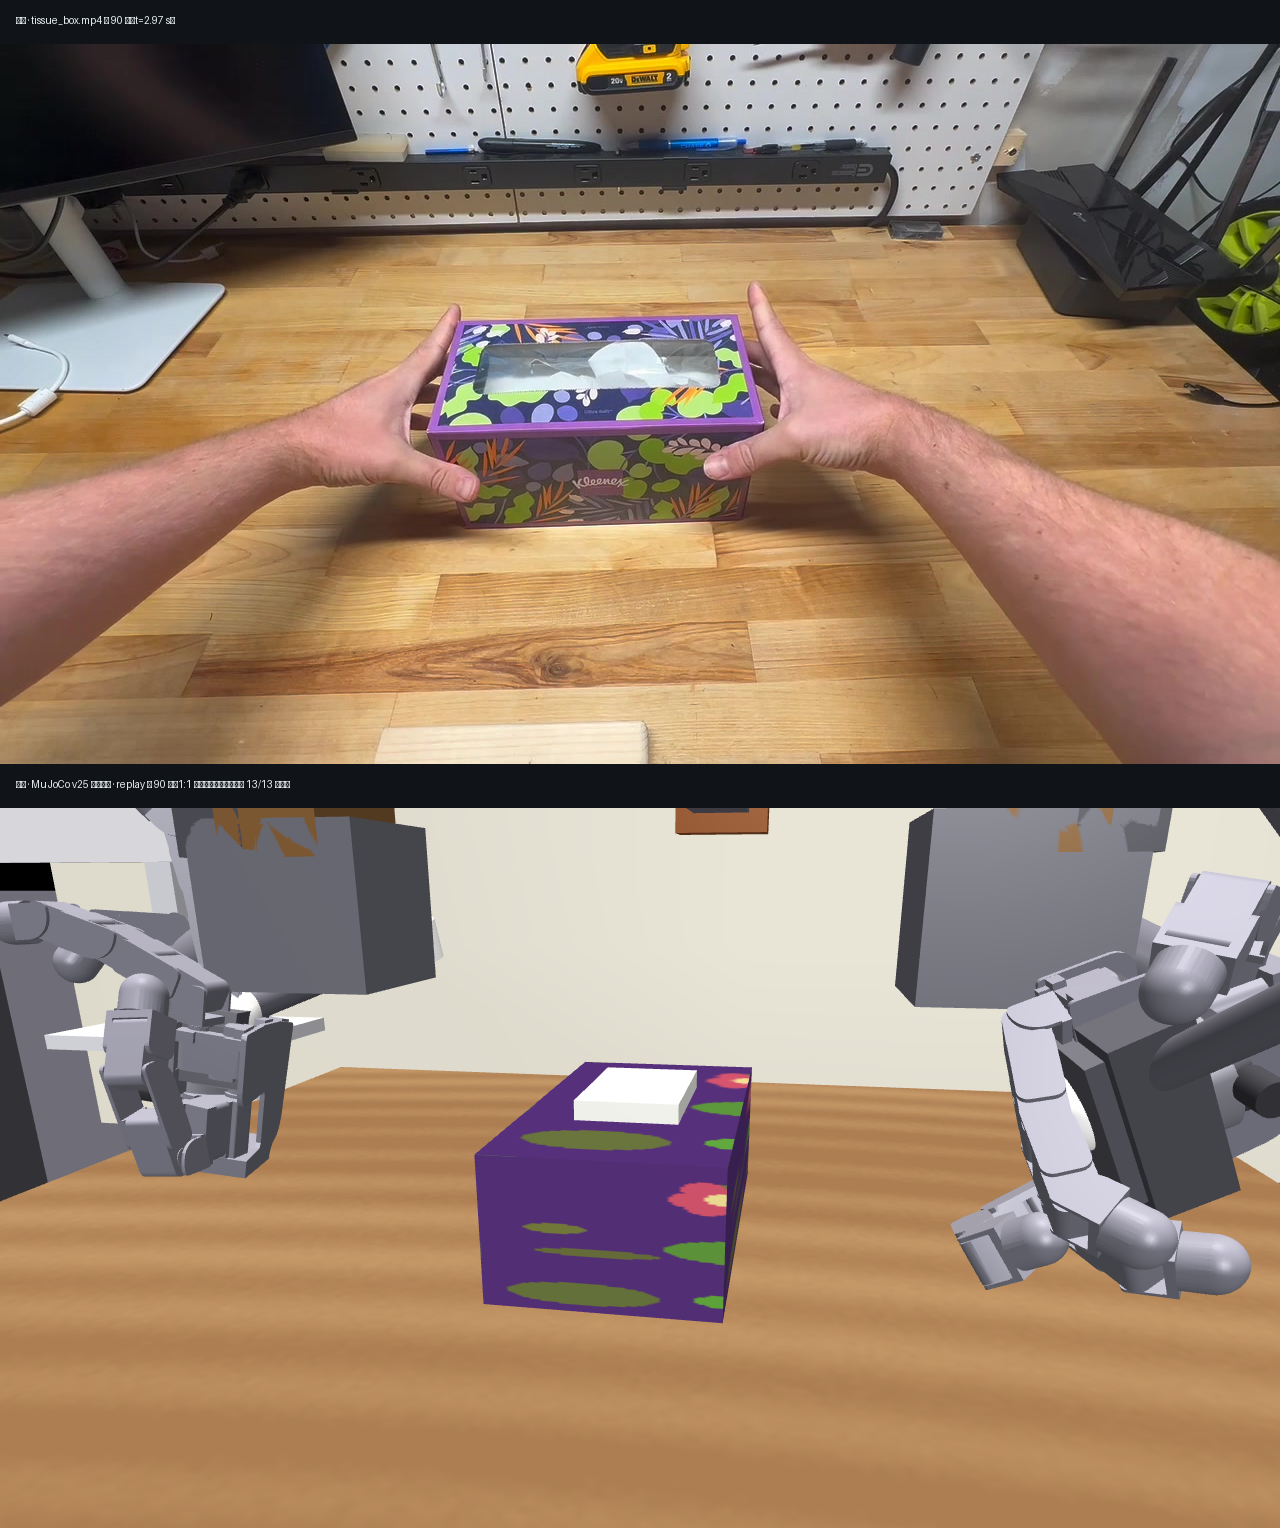
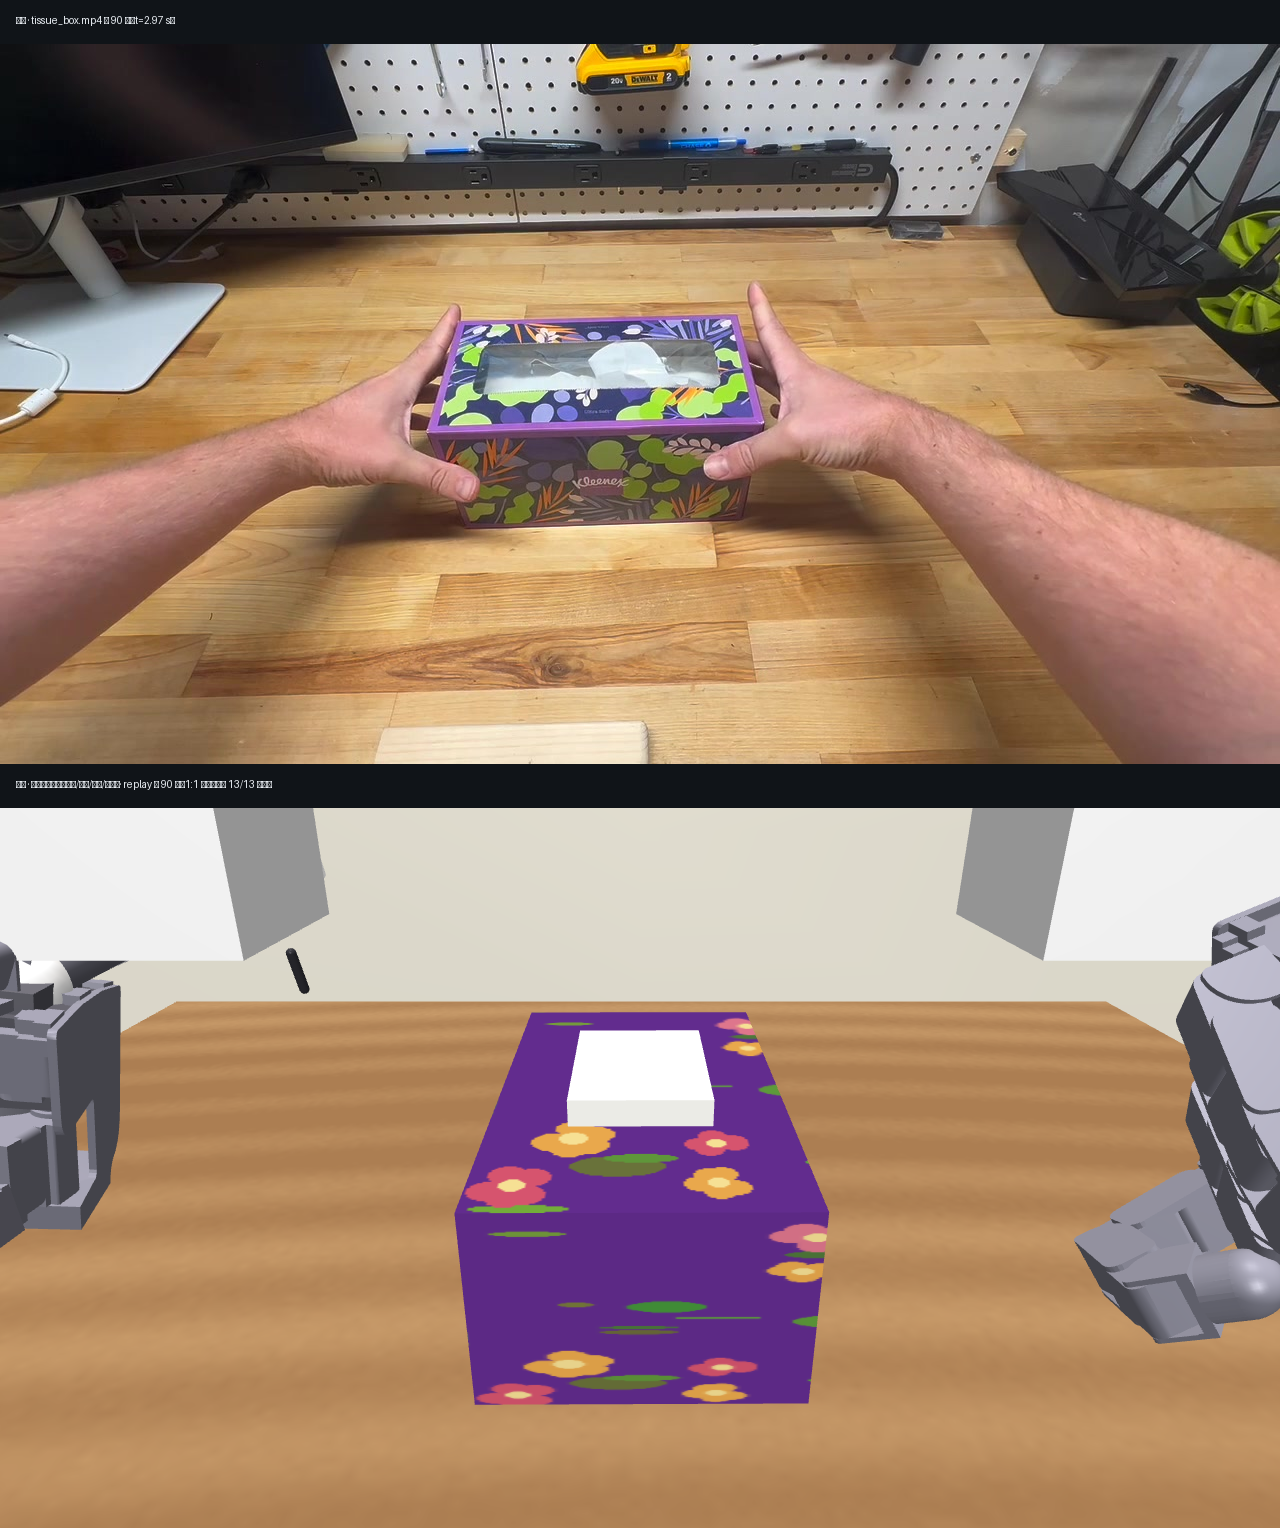
p0(w6d): product-level visuals — materials/shadows/cable chains

Changed region(s): [[0.0, 0.4921, 1.0, 0.9228], [0.0312, 0.8613, 0.1562, 0.892], [0.5312, 0.5229, 0.625, 0.5537]]

diff --git a/viz/scene_fidelity.py b/viz/scene_fidelity.py
@@ -31,7 +31,7 @@ REPO = pathlib.Path(__file__).resolve().parents[1]
 TEX_DIR = REPO / "viz/fidelity_textures"
 
 # original-clip palette (sampled from source frame 90)
-VIOLET = (86, 48, 122)
+VIOLET = (98, 44, 142)
 FLOWERS = [(214, 84, 110), (233, 168, 76), (88, 140, 78), (222, 118, 140)]
 OAK_LIGHT = (200, 155, 106)
 OAK_DARK = (172, 126, 82)
@@ -44,29 +44,31 @@ def _png(name: str) -> pathlib.Path:
     return TEX_DIR / f"{name}.png"
 
 
-def _floral_texture(path: pathlib.Path, size: int = 512) -> None:
-    """Purple base + scattered flowers/leaves, the tissue-box print."""
+def _floral_texture(path: pathlib.Path, size: int = 1024) -> None:
+    """Purple base + dense scattered flowers/leaves, the tissue-box print.
+    1024 px + ~3x element density vs v20 (GPT 满分批: density/saturation
+    aligned toward the original print)."""
     rng = np.random.default_rng(11)
     img = Image.new("RGB", (size, size), VIOLET)
     d = ImageDraw.Draw(img)
-    for _ in range(70):  # leaves
+    for _ in range(260):  # leaves
         x, y = rng.integers(0, size, 2)
-        r = rng.integers(8, 22)
+        r = rng.integers(6, 20)
         a = rng.uniform(0, np.pi)
         dx, dy = r * np.cos(a), r * np.sin(a) * 0.45
-        green = (70 + int(rng.integers(0, 50)), 110 + int(rng.integers(0, 60)), 60)
+        green = (66 + int(rng.integers(0, 55)), 105 + int(rng.integers(0, 70)), 58)
         d.ellipse([x - r, y - dy, x + r, y + dy], fill=green)
-    for _ in range(46):  # flowers: 5 petals around a centre
+    for _ in range(170):  # flowers: 5 petals around a centre
         x, y = rng.integers(0, size, 2)
-        pr = rng.integers(7, 16)
+        pr = rng.integers(6, 15)
         col = FLOWERS[rng.integers(0, len(FLOWERS))]
         for k in range(5):
             a = 2 * np.pi * k / 5 + rng.uniform(0, 1)
             px, py = x + 0.7 * pr * np.cos(a), y + 0.7 * pr * np.sin(a)
             d.ellipse([px - pr * 0.55, py - pr * 0.55,
                        px + pr * 0.55, py + pr * 0.55], fill=col)
-        d.ellipse([x - pr * 0.4, y - pr * 0.4, x + pr * 0.4, y + pr * 0.4],
-                  fill=(245, 225, 150))
+        d.ellipse([x - pr * 0.38, y - pr * 0.38, x + pr * 0.38, y + pr * 0.38],
+                  fill=(246, 224, 148))
     img.save(path)
 
 
@@ -87,12 +89,14 @@ def _pegboard_texture(path: pathlib.Path, size: int = 512) -> None:
     """Cream board with a regular round-hole grid."""
     img = Image.new("RGB", (size, size), PEG_BASE)
     d = ImageDraw.Draw(img)
-    step, r = size // 8, size // 64
+    step, r = size // 8, size // 56  # v20 批残差: holes read too faint far away
     for cy in range(step // 2, size, step):
         for cx in range(step // 2, size, step):
+            d.ellipse([cx - r, cy - r - 1, cx + r, cy + r - 1],
+                      fill=(120, 113, 100))   # cast shadow above
             d.ellipse([cx - r, cy - r, cx + r, cy + r], fill=PEG_HOLE)
             d.arc([cx - r - 1, cy - r - 1, cx + r + 1, cy + r + 1],
-                  180, 360, fill=(245, 242, 230))
+                  180, 360, fill=(246, 243, 232))
     img.save(path)
 
 
@@ -128,19 +132,49 @@ def build_fidelity_spec():
     # v19: the v17 shoulder domes are gone (no junction spheres in this XML);
     # the articulated arm segments get the machined-metal look so the chain
     # reads as one mechanism (skip silently if W6a renames again)
-    metal = spec.add_material(name="mat_metal")
-    metal.rgba = [0.60, 0.62, 0.67, 1.0]
-    metal.specular = 0.55
-    metal.shininess = 0.6
-    metal.reflectance = 0.04
+    def mat_machined(name, rgba, spec_=0.5, shin=0.6, metal_=0.0, rough=0.5):
+        # metallic/roughness ride along for PBR-capable consumers; the
+        # classic renderer honours rgba+specular+shininess
+        m_ = spec.add_material(name=name)
+        m_.rgba = list(rgba)
+        m_.specular = spec_
+        m_.shininess = shin
+        m_.metallic = metal_
+        m_.roughness = rough
+        return m_
+
+    mat_anodalu = mat_machined("mat_anodalu", (0.45, 0.47, 0.53, 1.0),
+                               0.6, 0.65, metal_=0.85, rough=0.35)  # 阳极铝
+    mat_poly = mat_machined("mat_poly", (0.13, 0.13, 0.15, 1.0),
+                            0.25, 0.3, rough=0.85)               # 聚氨酯垫
+    mat_powder = mat_machined("mat_powder", (0.47, 0.49, 0.52, 1.0),
+                              0.3, 0.35, metal_=0.3, rough=0.6)  # 喷塑钢
+    mat_frosted = mat_machined("mat_frosted", (0.86, 0.87, 0.89, 1.0),
+                               0.2, 0.25, rough=0.75)           # 磨砂塑料
     for an in ("arm_r_forearm", "arm_r_elbow", "arm_r_upper",
                "arm_l_forearm", "arm_l_elbow", "arm_l_upper",
                "arm_yaw_disc_r", "arm_elbow_disc_r", "arm_wrist_r",
                "arm_yaw_disc_l", "arm_elbow_disc_l", "arm_wrist_l"):
         ag = spec.geom(an) if an in [x.name for x in spec.geoms] else None
         if ag is not None:
-            ag.material = "mat_metal"
+            ag.material = "mat_anodalu"
             ag.rgba = [1.0, 1.0, 1.0, 1.0]
+
+    # fingertip pads -> dark polyurethane
+    for g in spec.geoms:
+        if g.name and "_tip_collision" in g.name:
+            g.material = "mat_poly"
+            g.rgba = [1.0, 1.0, 1.0, 1.0]
+
+    # gantry structure -> powder-coated steel; monitor -> frosted plastic
+    for g in spec.geoms:
+        if g.name and g.name.startswith("gantry_"):
+            g.material = "mat_powder"
+            g.rgba = [1.0, 1.0, 1.0, 1.0]
+        if g.name and g.name.startswith("mon_") and g.name != "mon_screen":
+            # the screen itself keeps its dark rgba (an off display)
+            g.material = "mat_frosted"
+            g.rgba = [1.0, 1.0, 1.0, 1.0]
 
     # --- re-skin existing geoms (visual only, physics identical) ----------
     spec.geom("table_slab").material = "mat_wood"
@@ -170,10 +204,55 @@ def build_fidelity_spec():
     # translucent window film over the slot
     vis(ob, "slot_film", mujoco.mjtGeom.mjGEOM_BOX,
         [0.046, 0.078, 0.0012], [0, 0, 0.0405],
-        rgba=[0.92, 0.95, 0.97, 0.30])
+        rgba=[0.95, 0.97, 0.99, 0.20])
 
     # --- workbench backdrop: pegboard wall, shelf, monitor ---------------
     wb = spec.worldbody
+
+    # --- engineering details (visual-only, mass 0) ------------------------
+    # cable drag chains: small dark capsules riding the outside of each upper
+    # arm and forearm segment
+    for seg_body, seg_len in (("arm_upper_r", 0.08), ("arm_upper_l", 0.08),
+                              ("arm_elbow_r", 0.08), ("arm_elbow_l", 0.08)):
+        ab = spec.body(seg_body)
+        n_seg = 4
+        for k in range(n_seg):
+            z = -seg_len + (2 * seg_len) * (k + 0.5) / n_seg
+            cg = ab.add_geom(name=f"{seg_body}_cable{k}",
+                             type=mujoco.mjtGeom.mjGEOM_CAPSULE,
+                             size=[0.0028, 0.011, 0.0],
+                             pos=[0.016, 0.0, z],
+                             contype=0, conaffinity=0, mass=0)
+            cg.rgba = [0.16, 0.16, 0.18, 1.0]
+    # bolt rings on the yaw/elbow discs (6 heads each, top face)
+    for disc_body, disc_r, disc_h in (("arm_yaw_r", 0.024, 0.012),
+                                      ("arm_yaw_l", 0.024, 0.012),
+                                      ("arm_elbow_r", 0.020, 0.014),
+                                      ("arm_elbow_l", 0.020, 0.014)):
+        db = spec.body(disc_body)
+        for k in range(6):
+            a = 2 * np.pi * k / 6
+            bg = db.add_geom(name=f"{disc_body}_bolt{k}",
+                             type=mujoco.mjtGeom.mjGEOM_CYLINDER,
+                             size=[0.0028, 0.0015, 0.0],
+                             pos=[disc_r * 0.72 * np.cos(a),
+                                  disc_r * 0.72 * np.sin(a),
+                                  disc_h + 0.0012],
+                             contype=0, conaffinity=0, mass=0)
+            bg.rgba = [0.30, 0.31, 0.34, 1.0]
+    # table support frame: apron box ring + four legs under the 30 mm slab
+    for name_, size_, pos_ in (
+            ("table_apron_xp", [0.45, 0.018, 0.028], [0.0, 0.40, 0.630]),
+            ("table_apron_xn", [0.45, 0.018, 0.028], [0.0, -0.40, 0.630]),
+            ("table_apron_yp", [0.018, 0.40, 0.028], [0.40, 0.0, 0.630]),
+            ("table_apron_yn", [0.018, 0.40, 0.028], [-0.40, 0.0, 0.630]),
+            ("table_leg_pp", [0.028, 0.028, 0.330], [0.36, 0.36, 0.275]),
+            ("table_leg_pn", [0.028, 0.028, 0.330], [0.36, -0.36, 0.275]),
+            ("table_leg_np", [0.028, 0.028, 0.330], [-0.36, 0.36, 0.275]),
+            ("table_leg_nn", [0.028, 0.028, 0.330], [-0.36, -0.36, 0.275])):
+        lg = wb.add_geom(name=name_, type=mujoco.mjtGeom.mjGEOM_BOX,
+                         size=size_, pos=pos_, contype=0, conaffinity=0, mass=0)
+        lg.material = "mat_wood"
 
     def deco(name, gtype, size, pos, material=None, rgba=None, euler=None):
         g = wb.add_geom(name=name, type=gtype, size=size, pos=pos,

diff --git a/viz/render_replay.py b/viz/render_replay.py
@@ -61,14 +61,15 @@ def main() -> None:
         sys.path.insert(0, str(REPO / "viz"))
     m = scene_fidelity.build_fidelity_model()
     d = mujoco.MjData(m)
-    # readability: mild ambient fill; the fidelity textures (oak, floral) are
-    # bright so anything stronger clips; warm tint for the clip's indoor cast.
-    # shadows OFF: the v17 shoulder domes are translucent 20-cm spheres whose
-    # opaque cast shadows read as two giant dark discs burned into the table
-    m.light_ambient[:] = 0.24
-    for i in range(m.nlight):
-        m.light_diffuse[i] = 0.52 * np.array([1.0, 0.97, 0.92])
-        m.light_specular[i] = 0.12
+    # lighting hierarchy: warm key + cool fill (the v17-era global shadow-off
+    # is reverted -- no more dome spheres to burn black discs); mild ambient
+    # higher ambient lifts the big structure shadows (this build has no soft
+    # shadows -- ambient is the only softening knob) while keeping hierarchy
+    m.light_ambient[:] = 0.38
+    m.light_diffuse[0] = 0.46 * np.array([1.00, 0.93, 0.82])  # warm key
+    m.light_diffuse[1] = 0.30 * np.array([0.88, 0.93, 1.05])  # cool fill
+    m.light_specular[0] = 0.22
+    m.light_specular[1] = 0.10
     # the frozen MJCF ships a 640 px offscreen buffer; widen it in memory so
     # the panel's sim panes come out at the source clip's 1280x720
     m.vis.global_.offwidth = WIDTH
